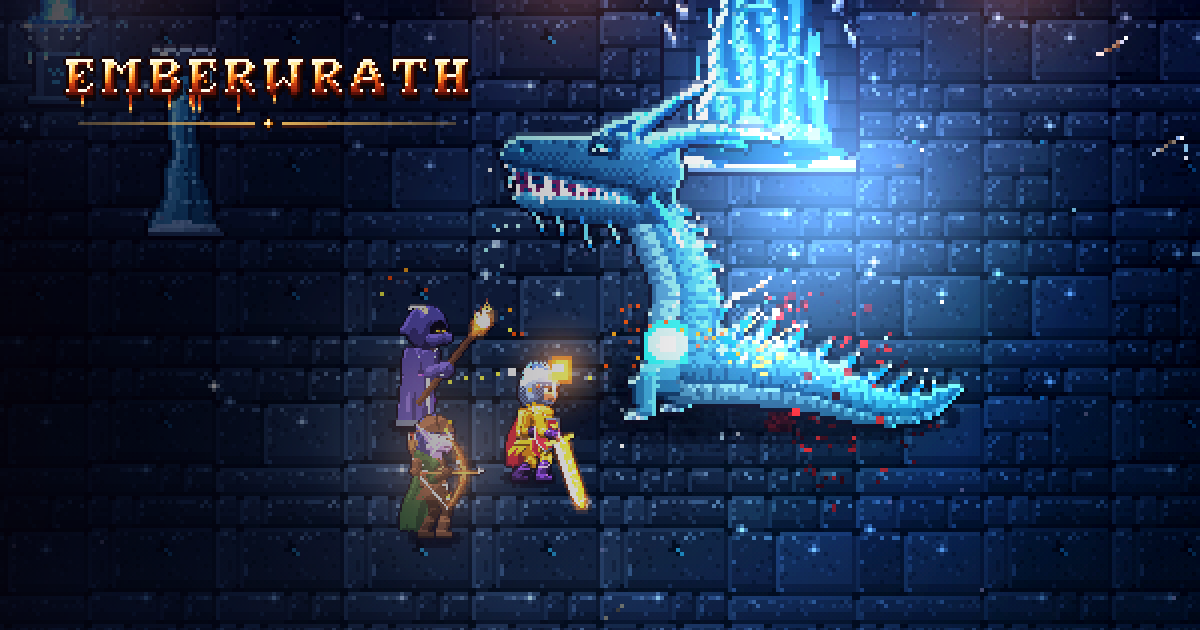
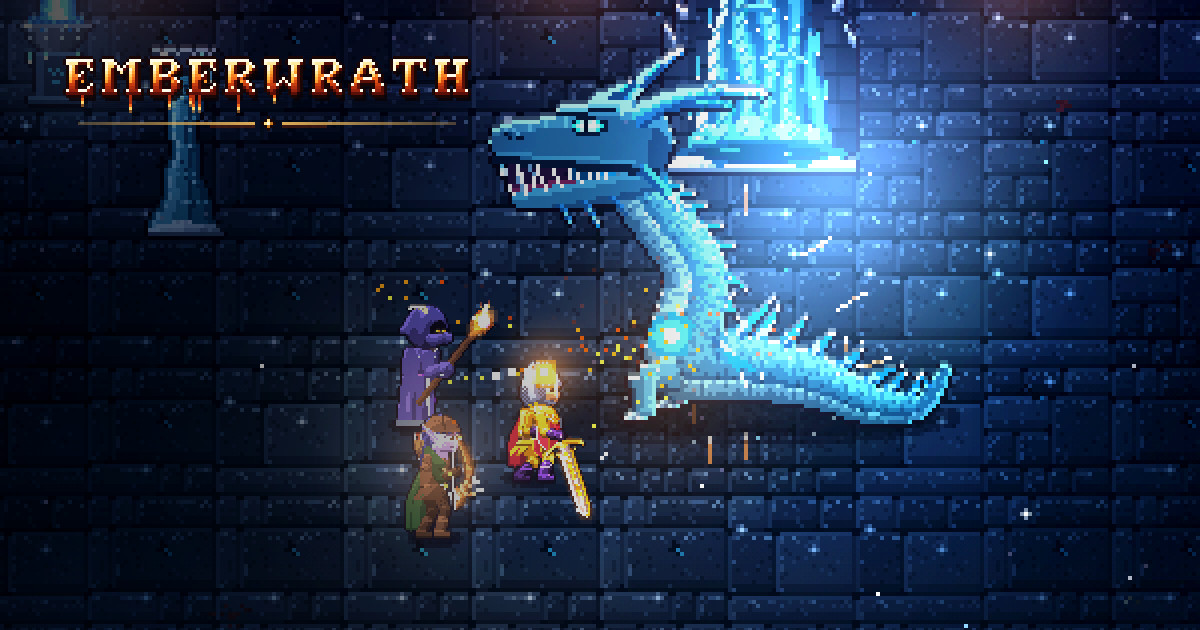
Website: Titelbild und Aschenfürst-Szene aus Grafik-Stand 9c, Vorschaubild für geteilte Links neu, Titel-Ausschnitt angepasst
Claude-Session: https://claude.ai/code/session_016qez4g2cYdi8Ag5boUatPM

diff --git a/site/index.html b/site/index.html
@@ -30,7 +30,7 @@
 <main id="inhalt">
 
   <section class="hero" aria-labelledby="titel">
-    <div class="hero-bg"><img style="--fx:0.5;--fy:0.42;--mx:0.5;--my:0.46" class="px shot" fetchpriority="high" src="img/kampf-titel.webp" alt="Skalvyr, der Frostwurm, reißt das Maul auf. Vor ihm stehen ein Krieger mit flammender Klinge, ein Magier und eine Waldläuferin mit gespanntem Bogen." width="960" height="540"></div>
+    <div class="hero-bg"><img style="--fx:0.52;--fy:0.4;--mx:0.52;--my:0.44" class="px shot" fetchpriority="high" src="img/kampf-titel.webp" alt="Skalvyr, der Frostwurm, reißt das Maul auf. Vor ihm stehen ein Krieger mit flammender Klinge, ein Magier und eine Waldläuferin mit gespanntem Bogen." width="960" height="540"></div>
     <canvas class="embers" aria-hidden="true"></canvas>
     <div class="hero-content">
       <img class="hero-logo px" src="img/logo.png" alt="Emberwrath" width="438" height="90">

diff --git a/site/site.css b/site/site.css
@@ -98,7 +98,7 @@ section { position: relative; }
 /* Titelbild und großer Streifen enger: Helden und Boss tragen das Bild */
 @media (min-width: 1200px) { .hero-bg { --f: 3; --ax: 0.77; } }
 @media (min-width: 1921px) { .strip .strip-a { --f: 2; } }
-@media (min-width: 1700px) { .hero-bg { --f: 4; --ax: 0.7; } }
+@media (min-width: 1700px) { .hero-bg { --f: 4; --ax: 0.75; } }
 @media (min-width: 2000px) { .hero-bg { --f: 5; } }
 @media (min-width: 2400px) { .hero-bg { --f: 6; } .strip .strip-a { --f: 3; } }
 .hero::before { content: ""; position: absolute; inset: 0; z-index: -2;
